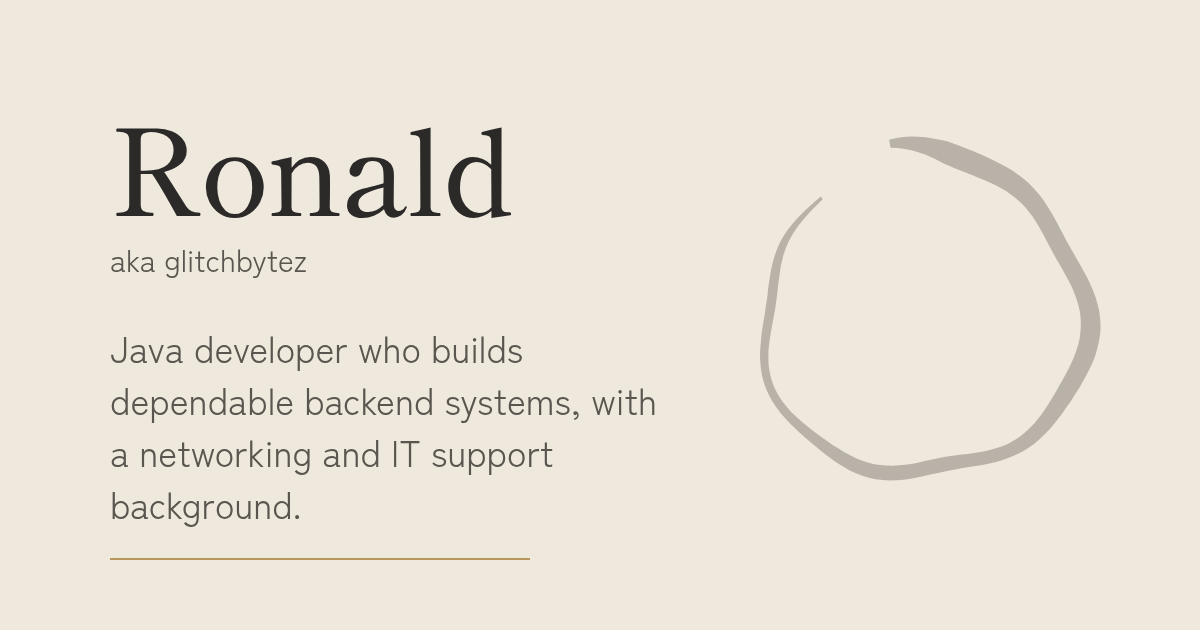
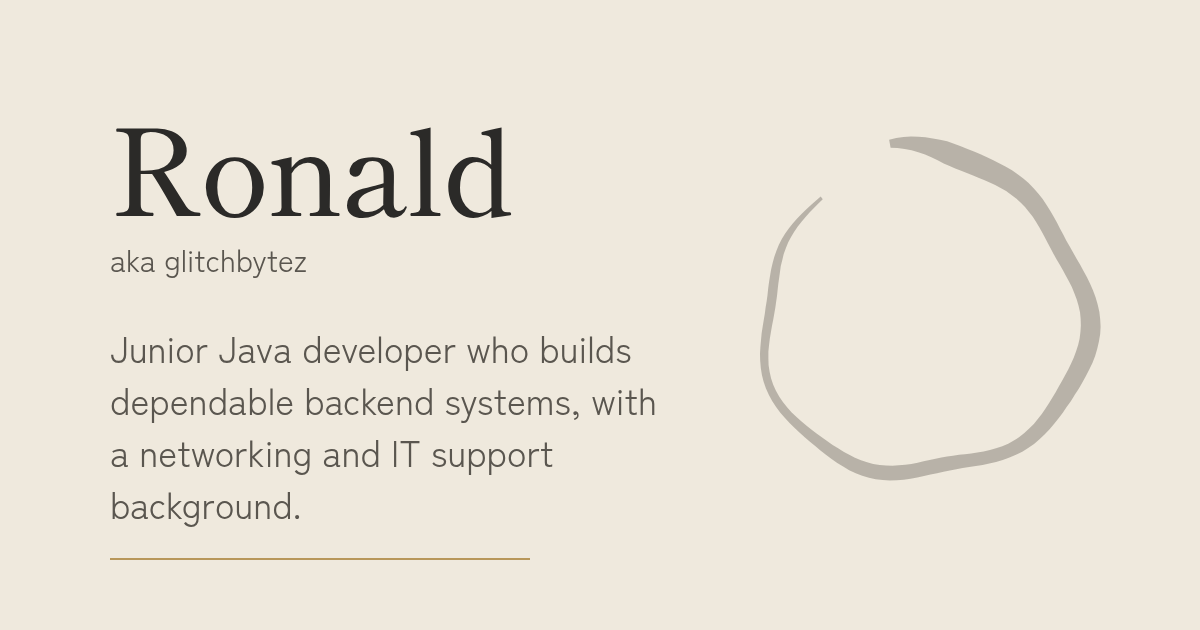
Add Ventry project and position as a junior Java developer
- New Ventry card (IT asset inventory API) as the second project, with
  highlights checked against the repo and its roadmap as the Next line
- 'Java developer' -> 'Junior Java developer' in the title, meta and
  social tags, JSON-LD jobTitle, hero, bio and OG image

Changed region(s): [[0.0925, 0.5429, 0.5242, 0.6032]]

diff --git a/index.html b/index.html
@@ -3,8 +3,8 @@
 <head>
   <meta charset="utf-8">
   <meta name="viewport" content="width=device-width, initial-scale=1">
-  <title>Ronald (glitchbytez) — Java Developer</title>
-  <meta name="description" content="Java developer building dependable backend systems, with a networking and IT support background.">
+  <title>Ronald (glitchbytez) — Junior Java Developer</title>
+  <meta name="description" content="Junior Java developer building dependable backend systems, with a networking and IT support background.">
   <meta name="theme-color" content="#EFE9DD" media="(prefers-color-scheme: light)">
   <meta name="theme-color" content="#1F1E1C" media="(prefers-color-scheme: dark)">
   <!-- TODO(Ronald): update these URLs if the site is not hosted at glitchbytez.github.io -->
@@ -13,15 +13,15 @@
 
   <meta property="og:type" content="website">
   <meta property="og:url" content="https://glitchbytez.github.io/">
-  <meta property="og:title" content="Ronald (glitchbytez) — Java Developer">
-  <meta property="og:description" content="Java developer building dependable backend systems, with a networking and IT support background.">
+  <meta property="og:title" content="Ronald (glitchbytez) — Junior Java Developer">
+  <meta property="og:description" content="Junior Java developer building dependable backend systems, with a networking and IT support background.">
   <meta property="og:image" content="https://glitchbytez.github.io/assets/og-image.png">
   <meta property="og:image:width" content="1200">
   <meta property="og:image:height" content="630">
-  <meta property="og:image:alt" content="Ronald, Java developer. An ink ensō circle on warm paper.">
+  <meta property="og:image:alt" content="Ronald, junior Java developer. An ink ensō circle on warm paper.">
   <meta name="twitter:card" content="summary_large_image">
-  <meta name="twitter:title" content="Ronald (glitchbytez) — Java Developer">
-  <meta name="twitter:description" content="Java developer building dependable backend systems, with a networking and IT support background.">
+  <meta name="twitter:title" content="Ronald (glitchbytez) — Junior Java Developer">
+  <meta name="twitter:description" content="Junior Java developer building dependable backend systems, with a networking and IT support background.">
   <meta name="twitter:image" content="https://glitchbytez.github.io/assets/og-image.png">
 
   <script type="application/ld+json">
@@ -30,8 +30,8 @@
     "@type": "Person",
     "name": "Ronald",
     "alternateName": "glitchbytez",
-    "jobTitle": "Java Developer",
-    "description": "Java developer building dependable backend systems, with a networking and IT support background.",
+    "jobTitle": "Junior Java Developer",
+    "description": "Junior Java developer building dependable backend systems, with a networking and IT support background.",
     "url": "https://glitchbytez.github.io/",
     "email": "mailto:ronaldmatimba@outlook.com",
     "sameAs": [
@@ -92,7 +92,7 @@
             <path class="enso__brush" d="M85.3 16.5L88.7 15.7L92.2 15.2L95.7 15.0L99.2 15.1L102.6 15.4L106.1 15.9L109.5 16.6L112.9 17.3L116.2 18.4L119.4 19.6L122.6 20.9L125.7 22.2L128.8 23.5L131.9 24.9L134.9 26.3L137.9 27.8L140.9 29.4L143.8 31.1L146.5 33.0L149.2 35.0L151.7 37.2L154.1 39.6L156.3 42.1L158.4 44.8L160.2 47.5L162.0 50.3L163.6 53.1L165.2 56.0L166.7 58.9L168.2 61.7L169.7 64.6L171.3 67.4L172.9 70.2L174.5 73.1L176.2 76.0L177.8 78.9L179.5 82.0L181.0 85.1L182.4 88.3L183.6 91.6L184.6 95.0L185.4 98.5L185.8 102.0L186.0 105.6L185.8 109.1L185.2 112.6L184.4 116.1L183.4 119.5L182.1 122.8L180.6 126.0L179.0 129.1L177.3 132.1L175.6 135.1L173.7 138.0L171.9 140.9L169.9 143.7L168.0 146.5L166.0 149.2L163.9 151.8L161.7 154.4L159.3 156.9L156.9 159.2L154.3 161.4L151.5 163.3L148.7 165.1L145.7 166.6L142.6 167.9L139.4 169.1L136.2 170.0L133.0 170.7L129.8 171.4L126.6 171.9L123.4 172.4L120.3 172.9L117.3 173.5L114.2 174.0L111.2 174.7L108.1 175.3L105.0 176.0L101.9 176.7L98.7 177.4L95.5 178.0L92.2 178.4L88.9 178.7L85.6 178.8L82.3 178.6L78.9 178.2L75.7 177.5L72.5 176.5L69.4 175.3L66.3 173.9L63.4 172.2L60.6 170.5L57.9 168.6L55.2 166.6L52.6 164.5L50.1 162.4L47.6 160.3L45.1 158.2L42.6 156.0L40.2 153.7L37.9 151.4L35.6 148.9L33.4 146.4L31.4 143.7L29.6 140.9L28.0 138.0L26.6 134.9L25.5 131.7L24.7 128.5L24.2 125.2L23.9 121.8L23.8 118.5L24.0 115.2L24.3 111.9L24.6 108.7L25.1 105.5L25.6 102.4L26.1 99.4L26.5 96.3L27.0 93.3L27.4 90.3L27.7 87.4L28.1 84.4L28.6 81.3L29.1 78.3L29.8 75.3L30.6 72.4L31.6 69.5L32.8 66.6L34.2 63.8L35.8 61.2L37.6 58.7L39.5 56.3L41.5 54.0L43.7 51.8L45.9 49.7L48.1 47.6L50.4 45.6L52.7 43.6L53.7 44.9L51.6 46.9L49.5 49.0L47.5 51.1L45.5 53.3L43.6 55.6L41.8 57.9L40.1 60.3L38.6 62.9L37.2 65.5L36.1 68.2L35.1 71.0L34.4 73.9L33.7 76.7L33.3 79.6L32.9 82.5L32.5 85.3L32.2 88.1L31.9 90.9L31.5 93.7L31.1 96.6L30.6 99.4L30.1 102.3L29.5 105.2L29.0 108.2L28.5 111.2L28.1 114.4L27.8 117.5L27.8 120.7L27.9 123.9L28.4 127.1L29.1 130.2L30.1 133.2L31.4 136.1L33.0 138.9L34.8 141.5L36.8 144.0L38.9 146.4L41.2 148.6L43.6 150.7L46.0 152.7L48.4 154.6L50.9 156.5L53.4 158.3L55.9 160.1L58.4 161.9L61.0 163.5L63.6 165.1L66.3 166.6L69.0 168.0L71.9 169.2L74.8 170.1L77.7 170.9L80.8 171.4L83.8 171.7L86.9 171.8L89.9 171.6L93.0 171.3L95.9 170.9L98.9 170.3L101.7 169.7L104.6 169.1L107.4 168.5L110.2 167.9L112.9 167.4L115.7 167.0L118.6 166.6L121.4 166.3L124.4 165.9L127.3 165.5L130.3 165.0L133.3 164.3L136.2 163.5L139.2 162.5L142.0 161.3L144.7 159.8L147.3 158.1L149.7 156.2L152.0 154.1L154.2 151.9L156.1 149.5L158.0 147.1L159.7 144.6L161.4 142.0L163.0 139.4L164.6 136.8L166.1 134.1L167.6 131.4L169.1 128.7L170.6 126.0L171.9 123.2L173.2 120.3L174.3 117.4L175.3 114.3L176.0 111.3L176.4 108.1L176.6 105.0L176.5 101.8L176.2 98.7L175.5 95.6L174.6 92.5L173.5 89.6L172.3 86.7L170.9 83.9L169.4 81.2L168.0 78.6L166.5 76.0L165.0 73.4L163.6 70.9L162.3 68.4L160.9 65.8L159.6 63.3L158.2 60.7L156.8 58.2L155.3 55.7L153.7 53.2L151.9 50.9L150.0 48.6L148.0 46.5L145.8 44.5L143.4 42.7L141.0 41.0L138.4 39.5L135.8 38.1L133.2 36.9L130.5 35.7L127.8 34.6L125.0 33.5L122.3 32.4L119.6 31.3L116.8 30.2L114.1 29.1L111.3 27.8L108.4 26.3L105.4 24.9L102.4 23.6L99.2 22.5L96.0 21.6L92.7 20.9L89.3 20.5L86.0 20.4Z" mask="url(#enso-reveal)"/>
           </svg>
           <h1 id="hero-title" class="hero__title">Ronald</h1>
-          <p class="hero__lede" data-slot="positioning">Java developer who builds dependable backend systems, with a networking and IT support background.</p>
+          <p class="hero__lede" data-slot="positioning">Junior Java developer who builds dependable backend systems, with a networking and IT support background.</p>
           <div class="hero__actions">
             <a class="button button--primary" href="#work">View work</a>
             <a class="button" href="#contact">Get in touch</a>
@@ -105,7 +105,7 @@
           </ul>
         </div>
         <div class="hero__bio" data-slot="bio">
-          <p>I'm Ronald, a Java developer who likes building backend systems that are simple, reliable and easy to reason about. My background spans software development and hands-on IT support and networking, and I'm currently working towards my CCNA.</p>
+          <p>I'm Ronald, a junior Java developer who likes building backend systems that are simple, reliable and easy to reason about. My background spans software development and hands-on IT support and networking, and I'm currently working towards my CCNA.</p>
           <p>I work mostly with Spring Boot, PostgreSQL and Azure, and I care about the details that make software pleasant to live with: clear APIs, honest documentation and code that fails gracefully. Away from the keyboard I enjoy quiet design and a good book.</p>
         </div>
       </div>
